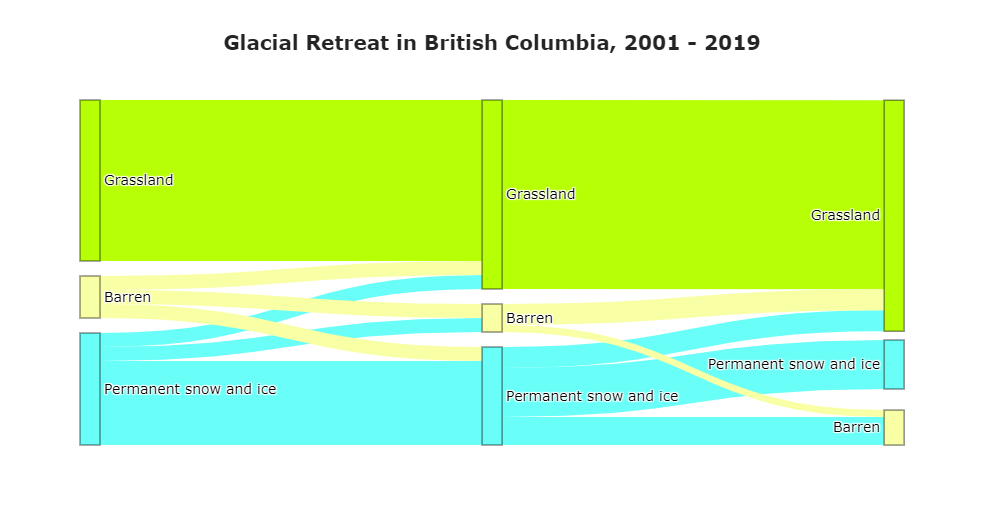
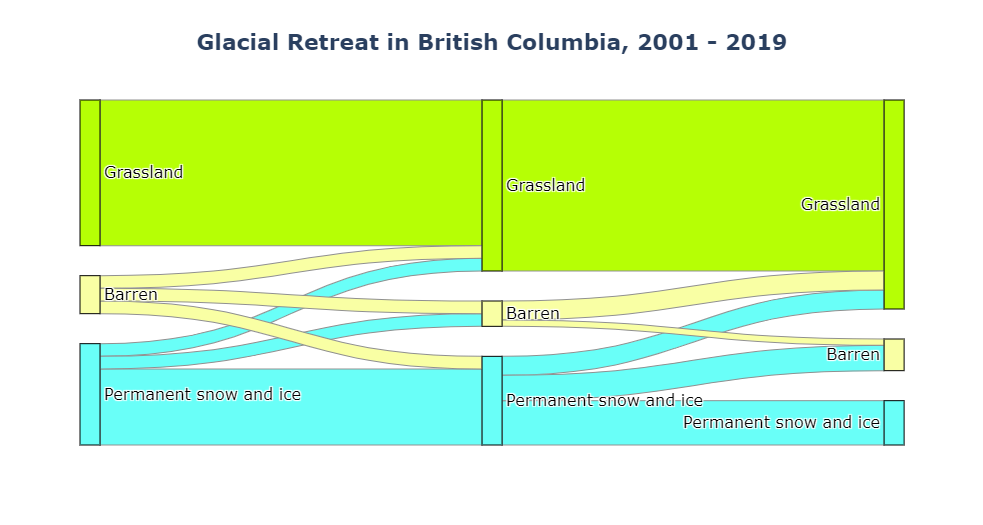
Update styling and screenshots

diff --git a/sankee/core.py b/sankee/core.py
@@ -214,30 +214,31 @@ def plot(node_labels, link_labels, node_palette, link_palette, label, source, ta
 
     fig = go.Figure(data=[go.Sankey(
         node=dict(
-            pad=15,
+            pad=30,
             thickness=20,
-            line=dict(color="black", width=0.5),
+            line=dict(color="#000000", width=1),
             customdata=node_labels,
             hovertemplate='%{customdata}<extra></extra>',
             label=label,
             color=node_palette
+            # color="#ffffff"
         ),
         link=dict(
             source=source,
             target=target,
+            line=dict(color="#909090", width=1),
             value=value,
             color=link_palette,
             customdata=link_labels,
             hovertemplate='%{customdata} <extra></extra>',
         ))])
 
-    if title:
-        fig.update_layout(
-            title_text=f"<b>{title}</b>",
-            font_size=14,
-            title_x=0.5,
-            template="seaborn"
-        )
+    fig.update_layout(
+        title_text=f"<b>{title}</b>" if title else None,
+        font_size=16,
+        title_x=0.5,
+        paper_bgcolor='rgba(0, 0, 0, 0)'
+    )
 
     return fig
 
